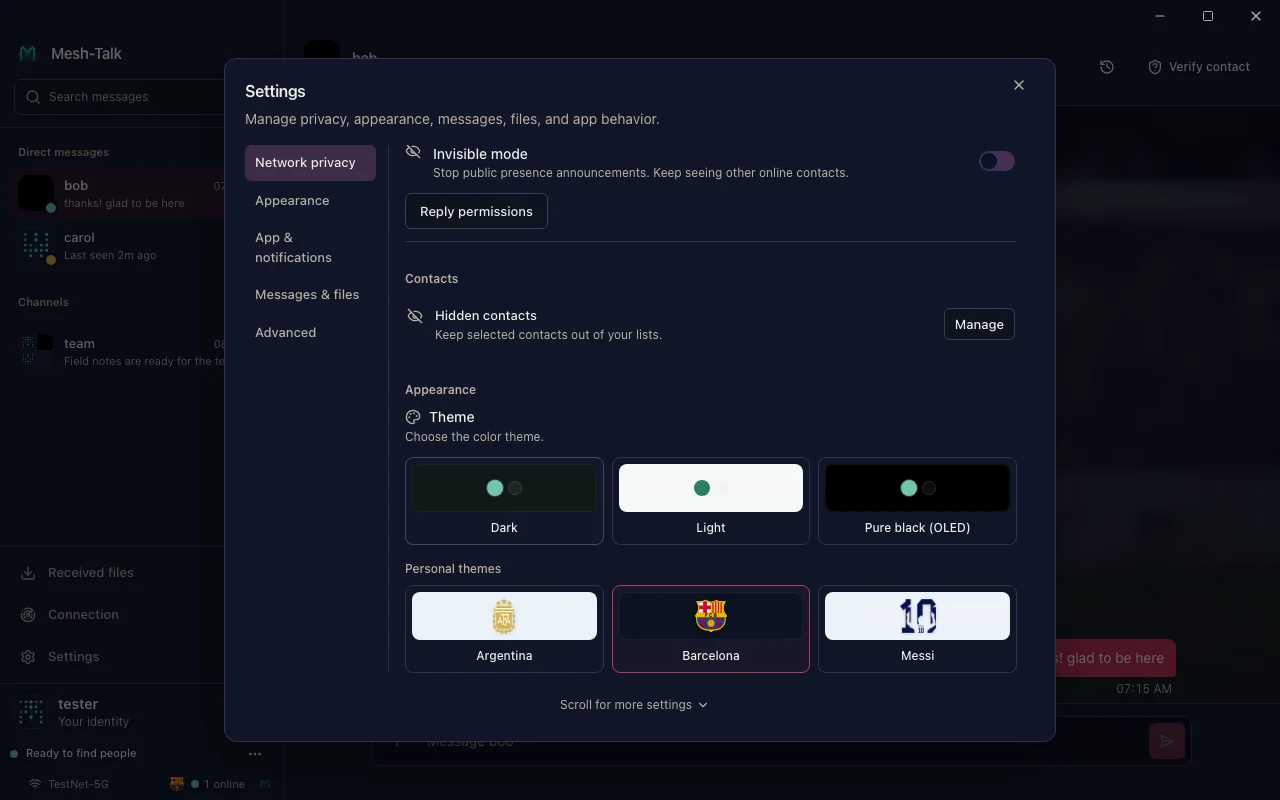
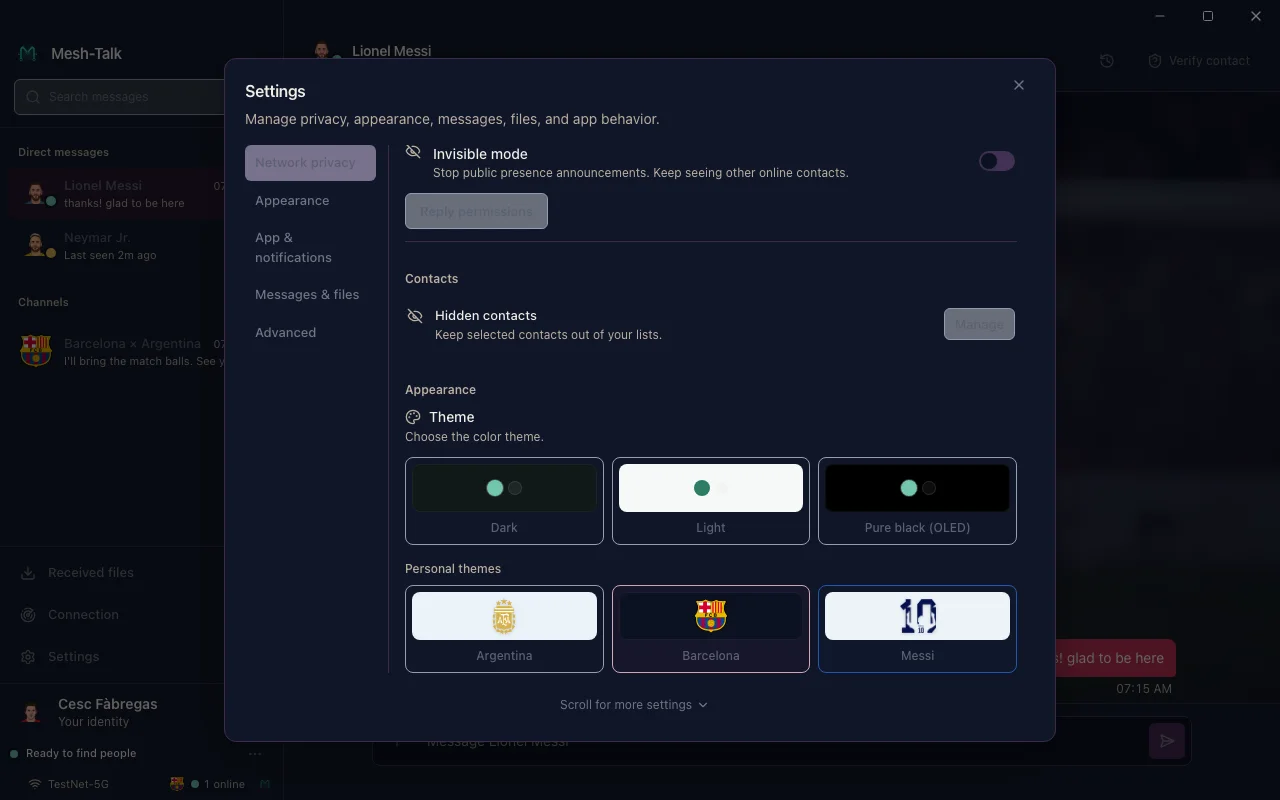
docs: refresh football-themed demo screenshots (#176)
* docs: refresh football-themed demo screenshots

* ci: select Go toolchain for actionlint

diff --git a/frontend/e2e/site-capture.spec.ts b/frontend/e2e/site-capture.spec.ts
@@ -1,7 +1,12 @@
 import { mkdir } from "node:fs/promises";
 import { resolve } from "node:path";
 import { test, expect } from "./tauri-mock";
-import { enterChat, openBobDm, CHANNEL } from "./helpers/session";
+import {
+  enterChat,
+  BOB,
+  CHANNEL,
+  seedThemeBeforeLoad,
+} from "./helpers/session";
 
 test.use({
   viewport: { width: 1280, height: 800 },
@@ -19,20 +24,43 @@ test("capture current desktop surfaces for the site and README", async ({
   page,
 }) => {
   await mkdir(output, { recursive: true });
-  await enterChat(page);
+  await seedThemeBeforeLoad(page, "messi");
+  await enterChat(page, "Cesc Fàbregas", "/?data=site");
 
   await page.getByTestId(`conversation-row-${CHANNEL.id}`).click();
   await expect(page.getByTestId("conversation-header")).toBeVisible();
-  await page
-    .getByTestId("composer-input")
-    .fill("Field notes are ready for the team.");
-  await page.getByTestId("composer-input").press("Enter");
   await expect(
-    page.getByRole("log").getByText("Field notes are ready for the team."),
+    page
+      .getByRole("log")
+      .getByText("I'll bring the match balls. See you there! ⚽"),
   ).toBeVisible();
-  await page.screenshot({ path: resolve(output, "hero-channel.png") });
+  await page.evaluate(async () => {
+    await document.fonts.ready;
+    await Promise.all(
+      [...document.images].map((img) => img.decode().catch(() => {})),
+    );
+  });
+  await page.screenshot({ path: resolve(output, "hero-messi.png") });
 
-  await openBobDm(page);
+  for (const theme of ["barcelona", "argentina"] as const) {
+    await page.getByTestId("sidebar-nav-settings").click();
+    await page.getByTestId(`theme-${theme}`).click();
+    await expect(page.locator("html")).toHaveAttribute("data-palette", theme);
+    await page.keyboard.press("Escape");
+    await expect(page.getByTestId("settings-dialog")).toBeHidden();
+    await page
+      .getByTestId("sidebar-nav-settings")
+      .evaluate((button) => (button as HTMLElement).blur());
+    await page.mouse.move(1000, 110);
+    await page.screenshot({ path: resolve(output, `hero-${theme}.png`) });
+  }
+
+  await page.getByTestId("sidebar-nav-settings").click();
+  await page.getByTestId("theme-messi").click();
+  await page.keyboard.press("Escape");
+
+  await page.getByTestId(`conversation-row-${BOB.account}`).click();
+  await expect(page.getByTestId("conversation-header")).toBeVisible();
   await page.getByTestId("verify-trigger").click();
   await expect(page.getByTestId("verify-dialog")).toBeVisible();
   await page.screenshot({ path: resolve(output, "verify.png") });
@@ -44,7 +72,7 @@ test("capture current desktop surfaces for the site and README", async ({
   await expect(page.getByTestId("theme-picker")).toBeVisible();
   await page.getByTestId("theme-barcelona").click();
   await page.screenshot({ path: resolve(output, "themes.png") });
-  await page.getByTestId("theme-dark").click();
+  await page.getByTestId("theme-messi").click();
   await page.keyboard.press("Escape");
 
   await page.getByTestId("composer-more-tools").click();

diff --git a/frontend/e2e/tauri-mock.ts b/frontend/e2e/tauri-mock.ts
@@ -52,6 +52,14 @@ export const test = base.extend({
         member_count: 2,
       };
 
+      // The site capture uses the same IPC fixture with a focused, football-themed
+      // conversation. Other E2E scenarios keep their ordinary names and messages.
+      if (dataMode === "site") {
+        BOB.name = "Lionel Messi";
+        CAROL.name = "Neymar Jr.";
+        CHANNEL.name = "Barcelona × Argentina";
+      }
+
       const peers = [
         {
           user_id: BOB.device_id,
@@ -109,6 +117,8 @@ export const test = base.extend({
         { user_id: BOB.device_id, name: BOB.name },
         { user_id: CAROL.device_id, name: CAROL.name },
       ];
+
+      if (dataMode === "site") channelMembers[0].name = "Cesc Fàbregas";
 
       if (dataMode === "worst" || dataMode === "huge") {
         const longName = "Aleksandra Wiśniewska-Kowalczyk (Laboratory)";
@@ -261,6 +271,28 @@ export const test = base.extend({
         ],
       };
 
+      if (dataMode === "site") {
+        msgs[`ch:${CHANNEL.channel_id}`] = [
+          msg({
+            who: BOB.device_id,
+            text: "Training starts at 10:30. Can everyone see the plan from the annex?",
+          }),
+          msg({
+            who: CAROL.device_id,
+            text: "Yes. The local network is up, and the plan came through clearly.",
+          }),
+          msg({
+            from_me: true,
+            who: SELF.device,
+            text: "Perfect. Meet by the south pitch. Bring the blue bibs.",
+          }),
+          msg({
+            who: BOB.device_id,
+            text: "I'll bring the match balls. See you there! ⚽",
+          }),
+        ];
+      }
+
       if (dataMode === "worst" || dataMode === "huge") {
         const samples = [
           "Release notes: " +
@@ -385,6 +417,16 @@ export const test = base.extend({
       const receivedAvatars: Record<string, string> = {
         [BOB.account_id]: TINY_PNG,
       };
+
+      if (dataMode === "site") {
+        const player = (name: string) =>
+          `/src/assets/avatars/players/${encodeURIComponent(name)}.webp`;
+        avatars[SELF.account] = player("Cesc Fàbregas");
+        avatars[CHANNEL.channel_id] =
+          "/src/assets/avatars/clubs/02-barcelona.svg";
+        receivedAvatars[BOB.account_id] = player("Lionel Messi");
+        receivedAvatars[CAROL.account_id] = player("Neymar");
+      }
 
       // --- Settings ---------------------------------------------------------
       const appSettings = {

diff --git a/site/index.html b/site/index.html
@@ -838,13 +838,33 @@
           <div class="shots reveal">
             <figure class="shot shot--wide">
               <img
-                src="screenshots/hero-channel.webp"
+                src="screenshots/hero-barcelona.webp"
                 width="1280"
                 height="800"
                 loading="lazy"
-                alt="Mesh-Talk channel conversation with compact navigation, message history, and composer"
+                alt="Barcelona-themed Mesh-Talk channel with Lionel Messi, Neymar Jr., player avatars, and a football team conversation"
               />
-              <figcaption>Channel conversation</figcaption>
+              <figcaption>Barcelona × Argentina · team conversation</figcaption>
+            </figure>
+            <figure class="shot">
+              <img
+                src="screenshots/hero-argentina.webp"
+                width="1280"
+                height="800"
+                loading="lazy"
+                alt="Argentina theme showing the same football team conversation"
+              />
+              <figcaption>Argentina theme</figcaption>
+            </figure>
+            <figure class="shot">
+              <img
+                src="screenshots/hero-messi.webp"
+                width="1280"
+                height="800"
+                loading="lazy"
+                alt="Messi theme showing the same football team conversation"
+              />
+              <figcaption>Messi theme</figcaption>
             </figure>
             <figure class="shot">
               <img
@@ -868,7 +888,7 @@
             </figure>
           </div>
           <p class="shot-note">
-            Current v0.2.0 interface with demo identities and messages.
+            Current v0.2.0 interface with deterministic football-themed demo identities and messages.
           </p>
         </div>
       </section>

diff --git a/frontend/e2e/site-audit.spec.ts b/frontend/e2e/site-audit.spec.ts
@@ -12,7 +12,7 @@ for (const width of [390, 1280]) {
     await page.setViewportSize({ width, height: 800 });
     await page.goto(site);
     await expect(page.getByRole("heading", { level: 1 })).toBeVisible();
-    await expect(page.locator(".shot img")).toHaveCount(3);
+    await expect(page.locator(".shot img")).toHaveCount(5);
     for (const image of await page.locator(".shot img").all()) {
       await image.scrollIntoViewIfNeeded();
       await expect

diff --git a/README.md b/README.md
@@ -36,11 +36,11 @@ encrypted events for offline peers.
 </p>
 
 <p align="center">
-  <img src="docs/screenshots/hero-channel.webp" width="860"
-       alt="Mesh-Talk v0.2.0 channel conversation with compact navigation, message history, and composer">
+  <img src="docs/screenshots/hero-barcelona.webp" width="860"
+       alt="Mesh-Talk Barcelona theme showing a football team chat with Lionel Messi, Neymar Jr., player avatars, and a message composer">
 </p>
 
-<p align="center"><sub>Current v0.2.0 interface shown with deterministic demo identities and messages.</sub></p>
+<p align="center"><sub>Barcelona × Argentina demo, captured from the current v0.2.0 interface with deterministic sample messages.</sub></p>
 
 ---
 
@@ -86,6 +86,16 @@ relay (the "post office") delivers messages to peers that are temporarily offlin
 ## Screenshots
 
 <table>
+  <tr>
+    <td width="50%" align="center">
+      <img src="docs/screenshots/hero-argentina.webp" alt="Argentina theme with the same football team conversation and player avatars">
+      <br><sub><b>Argentina theme</b></sub>
+    </td>
+    <td width="50%" align="center">
+      <img src="docs/screenshots/hero-messi.webp" alt="Messi theme with the same football team conversation and player avatars">
+      <br><sub><b>Messi theme</b></sub>
+    </td>
+  </tr>
   <tr>
     <td width="50%" align="center">
       <img src="docs/screenshots/stickers.webp" alt="The sticker panel open in a direct message">

diff --git a/docs/screenshots/README.md b/docs/screenshots/README.md
@@ -1,6 +1,8 @@
 # Desktop screenshots
 
-These images show the current v0.2.0 React interface against deterministic demo data.
+These images show the current v0.2.0 React interface against deterministic
+football-themed demo data. The three `hero-*.webp` captures share the same
+conversation and show the Barcelona, Argentina, and Messi palettes.
 They are UI examples, not captures of a real network or evidence of message delivery.
 The same WebP files are used by the root README and the static site.
 
@@ -10,9 +12,8 @@ To refresh them after a frontend visual change:
 cd frontend
 MESH_TALK_CAPTURE_SITE=1 npm run e2e -- --reporter=line e2e/site-capture.spec.ts
 cd ..
-for capture_png in tmp/site-captures/*.png; do
-  capture_name=${capture_png##*/}
-  capture_name=${capture_name%.png}
+for capture_name in hero-barcelona hero-argentina hero-messi verify settings themes stickers avatars-players avatars-clubs; do
+  capture_png="tmp/site-captures/$capture_name.png"
   cwebp -quiet -q 84 "$capture_png" -o "site/screenshots/$capture_name.webp"
   cp "site/screenshots/$capture_name.webp" "docs/screenshots/$capture_name.webp"
 done
